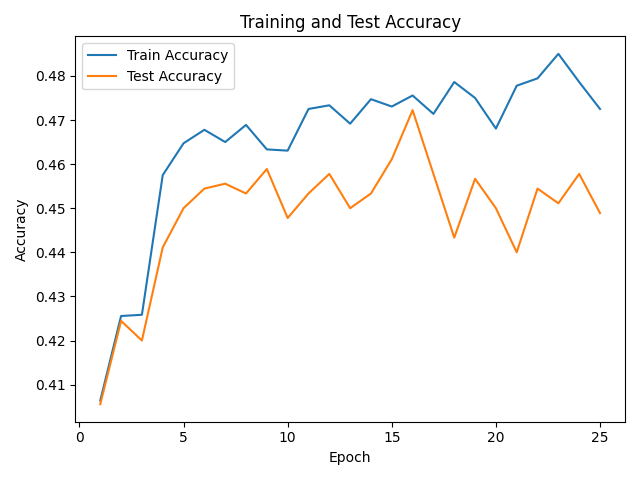
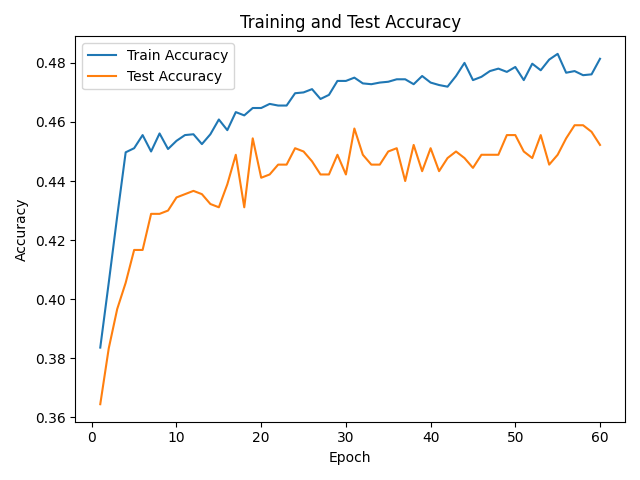
increased data size and qubits

diff --git a/QML/vqc.py b/QML/vqc.py
@@ -3,6 +3,7 @@ import pandas as pd
 import pennylane as qml
 from pennylane import numpy as pnp
 from sklearn.model_selection import train_test_split
+from sklearn.preprocessing import MinMaxScaler
 from sklearn.metrics import accuracy_score, classification_report, confusion_matrix
 import joblib
 import matplotlib.pyplot as plt
@@ -15,14 +16,14 @@ FEATURE_COLUMNS = [f"pc{i}" for i in range(1, 9)]
 RANDOM_SEED = 42
 TEST_SIZE = 0.2
 N_QUBITS = 8
-N_LAYERS = 4
+N_LAYERS = 3
 N_CLASSES = 3
-EPOCHS = 25
+EPOCHS = 60
 BATCH_SIZE = 16
-LEARNING_RATE = 0.01
+LEARNING_RATE = 0.003
 
-MODEL_SAVE_PATH = "vqc_4500_pca8_multiclass_v1.joblib"
-HISTORY_SAVE_PATH = "vqc_4500_pca8_multiclass_v1_history.joblib"
+MODEL_SAVE_PATH = "vqc_4500_pca8_multiclass_best.joblib"
+HISTORY_SAVE_PATH = "vqc_4500_pca8_multiclass_best_history.joblib"
 
 LABEL_NAMES = {
     0: "normal",
@@ -61,41 +62,44 @@ print("Test shape:", X_test.shape)
 print("Train label distribution:", dict(zip(*np.unique(y_train, return_counts=True))))
 print("Test label distribution:", dict(zip(*np.unique(y_test, return_counts=True))))
 
+scaler = MinMaxScaler(feature_range=(0, np.pi))
+
+X_train = scaler.fit_transform(X_train)
+X_test = scaler.transform(X_test)
 dev = qml.device("default.qubit", wires=N_QUBITS)
 
-def variational_layer(weights, x):
-    # re-upload with per-layer learnable scale (weights[:, 2])
-    for i in range(N_QUBITS):
-        qml.RY(weights[i, 2] * x[i], wires=i)
-        qml.RZ(weights[i, 2] * x[(i + 1) % len(x)], wires=i)
-
-    # trainable rotations
+def variational_layer(weights):
     for i in range(N_QUBITS):
         qml.RY(weights[i, 0], wires=i)
         qml.RZ(weights[i, 1], wires=i)
 
-    # brick-layer entanglement
-    for i in range(0, N_QUBITS - 1, 2):
-        qml.CNOT(wires=[i, i + 1])
-    for i in range(1, N_QUBITS - 1, 2):
-        qml.CNOT(wires=[i, i + 1])
+    for i in range(N_QUBITS):
+        qml.CNOT(wires=[i, (i + 1) % N_QUBITS])
 
 @qml.qnode(dev, interface="autograd")
 def circuit(x, weights):
     for layer in range(N_LAYERS):
-        variational_layer(weights[layer], x)
-    return [qml.expval(qml.PauliZ(i)) for i in range(N_QUBITS)]
 
+        # encoding
+        qml.templates.AngleEmbedding(
+            x,
+            wires=range(N_QUBITS),
+            rotation="Y"
+        )
 
-def softmax(logits):
-    logits = pnp.array(logits)
-    shifted = logits - pnp.max(logits)
-    exp_vals = pnp.exp(shifted)
-    return exp_vals / pnp.sum(exp_vals)
+        # structured variational layer
+        qml.templates.StronglyEntanglingLayers(
+            weights[layer:layer+1],
+            wires=range(N_QUBITS)
+        )
+
+    return qml.probs(wires=[0,1])
+
 
 def predict_probs(x, weights):
-    raw_outputs = circuit(x, weights)[:N_CLASSES]
-    probs = softmax(raw_outputs)
+    probs = circuit(x, weights)
+    probs = probs[:N_CLASSES]
+    probs = probs / pnp.sum(probs)
     return probs
 
 def predict_label(x, weights):
@@ -119,10 +123,10 @@ def evaluate(X, y, weights):
     return acc, probs, preds
 
 weights = pnp.array(
-    np.random.normal(
-        loc=0.0,
-        scale=0.1,
-        size=(N_LAYERS, N_QUBITS, 3)
+    0.01 * np.random.randn(
+        N_LAYERS,
+        N_QUBITS,
+        3
     ),
     requires_grad=True
 )
